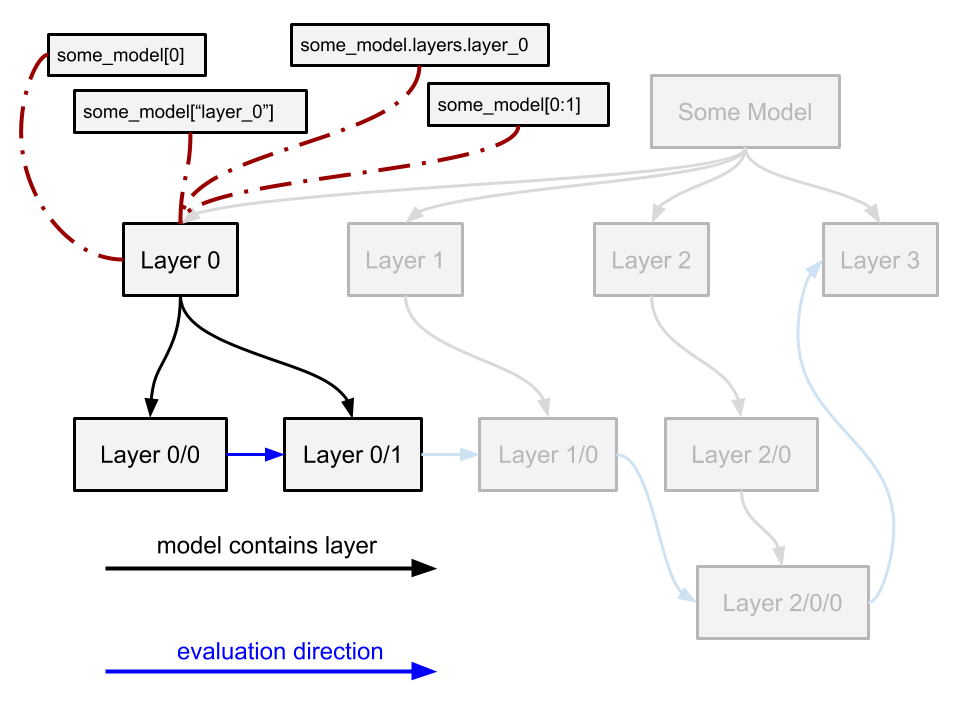
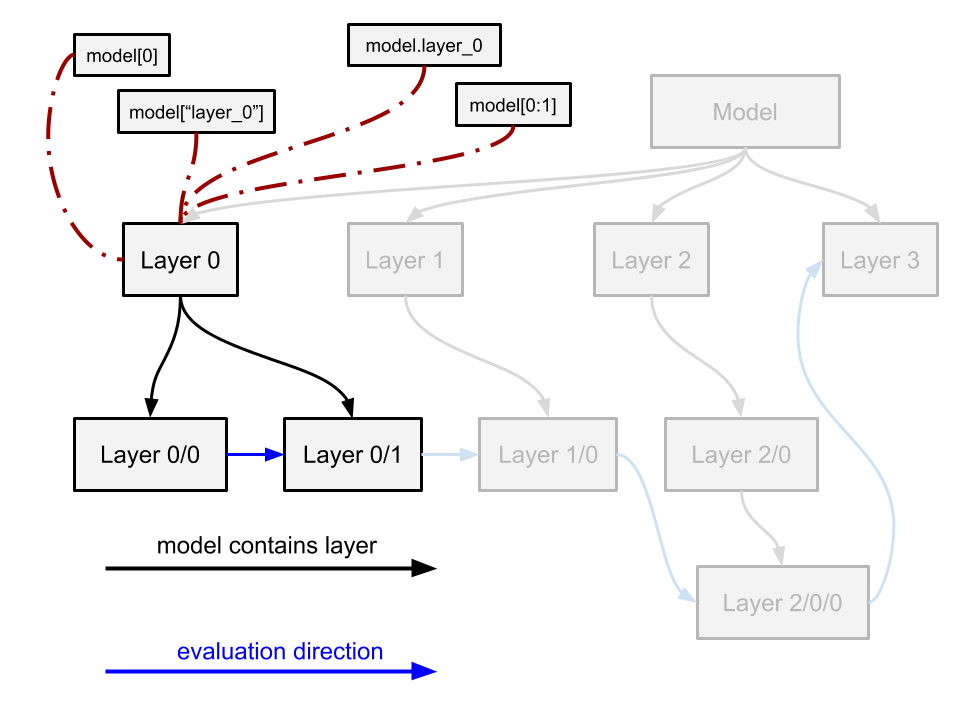
added code example for layer api, changed layer slicing png

diff --git a/README.md b/README.md
@@ -256,9 +256,9 @@ implemented in the respective `push(**kwargs)` method of every layer:
 
 ### Layer Slicing
 Via the Layer API you can slice a model into into its respective components for further reuse.
-Slicing can be done via explicit slice objects (`some_model[0:1]`) or in the case of singleton extractions
-also via passing the index (`some_layer[0]`) or name (`some_layer[“layer_0“]`) of the layer to extract.
-Alternatively you can also extract the layer name as an actual field (`some_model.layers.some_layer`):
+Slicing can be done via explicit slice objects (`model[0:1]`) or in the case of singleton extractions
+also via passing the index (`model[0]`) or name (`model[“layer_0“]`) of the layer to extract.
+Alternatively you can also extract the layer name as an actual field (`model.layer_0`):
 
 ![alt text](readme_images/layer_slicing.png)
 
@@ -267,7 +267,36 @@ As a real life example, take the shared layers between language models, text emb
 ![alt text](readme_images/layered_model_example.png)
 
 
+The code to construct such a model is straightforward:
+```python
+# initialize layers
+tokenizer: Layer = ...
+sequence_mapper: Layer = ...
+core_model: Layer = ...
+token_classifier: Layer = ...
+aggregator: Layer = ...
+label_classifier: Layer = ...
 
+# concatenate single layers into more complex models
+# We start by initializing an empty Layer instance and attach named sub-layers
+preprocessing = Layer() \
+                + ("tokenizer", tokenizer) \
+                + ("sequence_mapper", sequence_mapper)
+language_model = Layer() \
+                 + ("preprocessing", preprocessing) \
+                 + ("core_model", core_model) \
+                 + ("token_classifier", token_classifier)
+text_embedding_model = Layer() \
+                       + ("preprocessing", preprocessing) \
+                       + ("core_model", core_model) \
+                       + ("aggregator", aggregator)
+text_embedding_model = Layer() \
+                       + ("text_embedding_model", text_embedding_model) \
+                       + ("label_classifier", label_classifier)
+
+assert text_embedding_model == language_model[:-1] + ("aggregator", aggregator)
+
+```
 ## StatefulLayeredModel
 Also layered models can be stateful. For instance, you can have a transfer learning model based on an LSTM,
 which is inherently stateful. In such cases, calling e.g. `model.get_state()` will return all states of the
